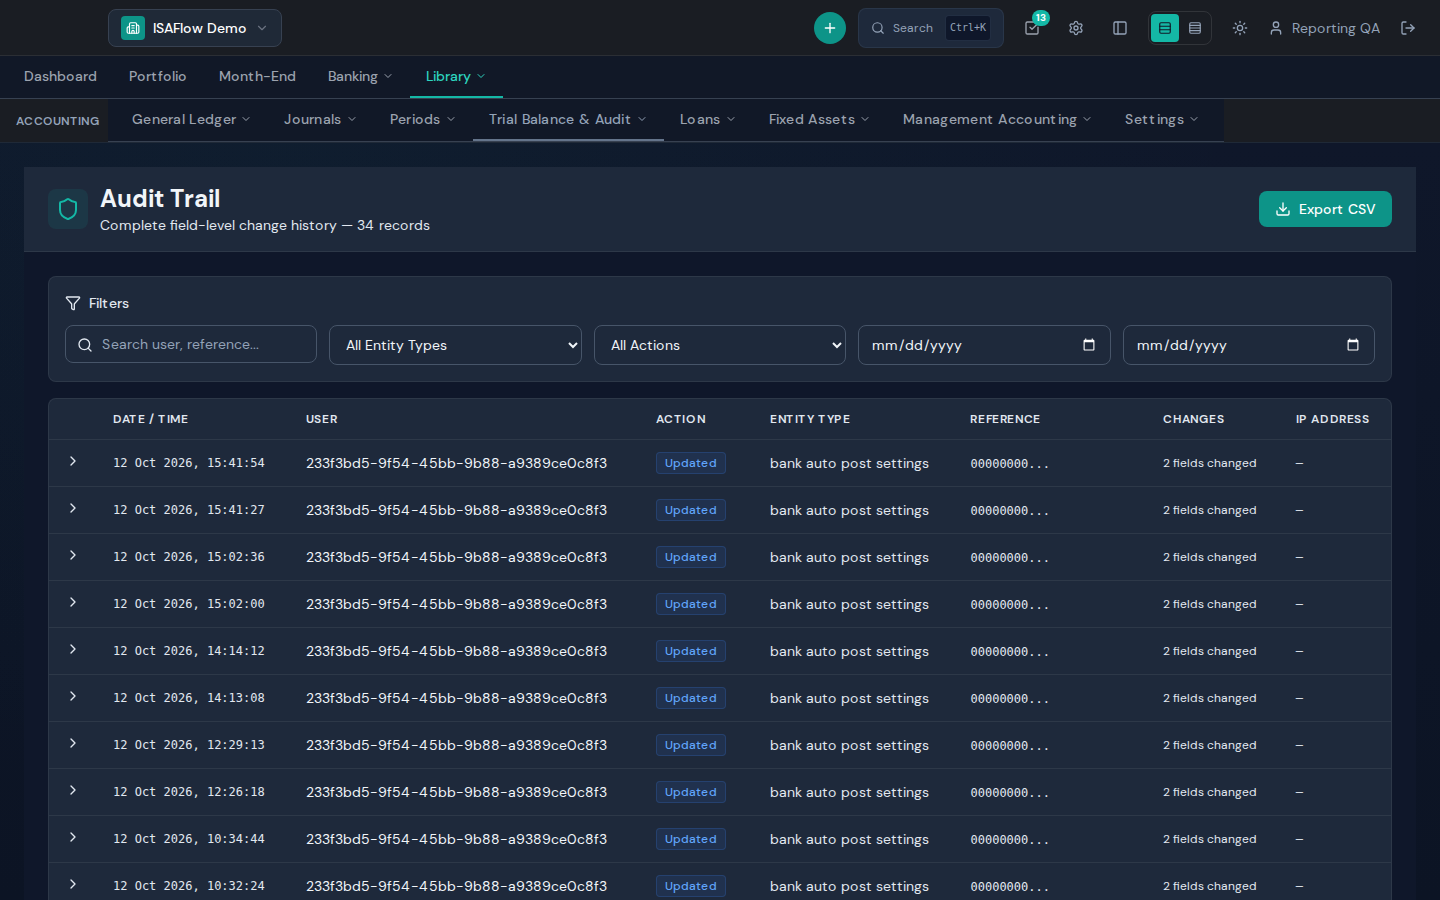
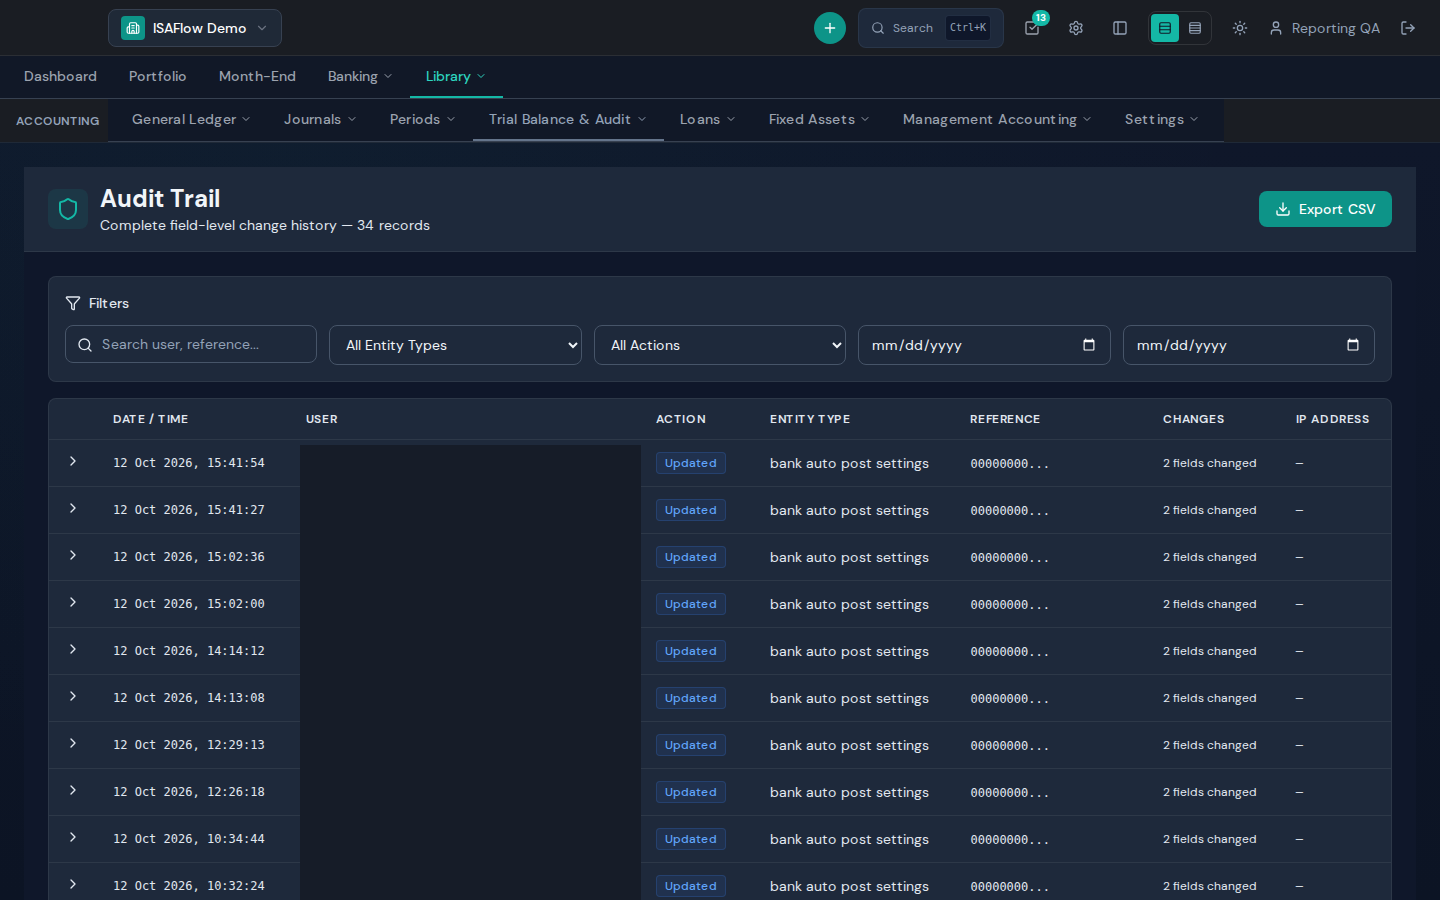
docs(audit): drop a user UUID from the audit-log screenshot and the browser findings

diff --git a/docs/audits/2026-10-18/browser-workflows.md b/docs/audits/2026-10-18/browser-workflows.md
@@ -23,7 +23,7 @@ Customer AUDIT1018 Customer A; INV0006649 (3 lines, 15%, R253.06, approved, JE-2
 | 8 | MEDIUM | `POST /api/accounting/customer-invoices-detail` (approve) via `api-error-handler.ts:185` | Approving an invoice dated in a closed period (2025-06-15) returns HTTP 500 INTERNAL_SERVER_ERROR. Dev shows the message; in production the message is masked to "An unexpected error occurred" so the user is not told why. The manual-journal post path returns a proper 400 ("Cannot post to closed fiscal period"). Expected 4xx with message. Screen: `ar-closed-period-approve-500.png` | NEW |
 | 9 | LOW | Manual journal form `/accounting/journal-entries/new` | Button "Post Journal Entry" creates a DRAFT (JE-2026-14976 status draft); a second step "Post Entry" is needed. Misleading label. Draft dated in closed period is also accepted (JE-2025-00061), only post is refused. | NEW |
 | 10 | LOW | Number formatting | Mixed decimal separators: invoice form summary "R 220.05", invoice detail/lists "R 220,05", balance sheet "(666 274.14)", bank page "R 36 134 487,33". Dates: UI ISO `2026-10-18`, journal `10/18/2026`, payments `2026/10/18`, PDF `18/10/2026`. | NEW |
-| 11 | LOW | Detail pages | Raw JS Date string shown, truncated: credit note "CREATED Sun Oct 18 2026 10:41:09 GM"; "APPROVED By <uuid> on Sun Oct 18 ... GM"; journal "CREATED BY 233f3bd5-..." (uuid not name); supplier invoice "PAYMENT TERMS net30" raw enum. | NEW |
+| 11 | LOW | Detail pages | Raw JS Date string shown, truncated: credit note "CREATED Sun Oct 18 2026 10:41:09 GM"; "APPROVED By <uuid> on Sun Oct 18 ... GM"; journal "CREATED BY <uuid>" (uuid not name); supplier invoice "PAYMENT TERMS net30" raw enum. | NEW |
 | 12 | LOW | Credit note | CN created without invoice link (form has no invoice field), approve auto-applies R57.50 to oldest open invoice (INV0006649 amount_paid 100.00 -> 157.50) but CN detail shows "INVOICE REF —". Math correct; traceability missing. | NEW |
 | 13 | LOW | `/accounting/customer-payments` | Redirect after "Create Payment" lands on list showing "0 payments" (stale) although POST returned 201; refresh shows 1,802. Also `Confirm & Post GL` takes >2.5 s with no visible progress change. | NEW |
 | 14 | LOW | Console warnings | `/accounting/audit-log` duplicate React key; `/accounting/reports/sales-by-item` two children with same key; `/accounting/practice/job-categories` validateDOMNesting (button in button). | NEW |
